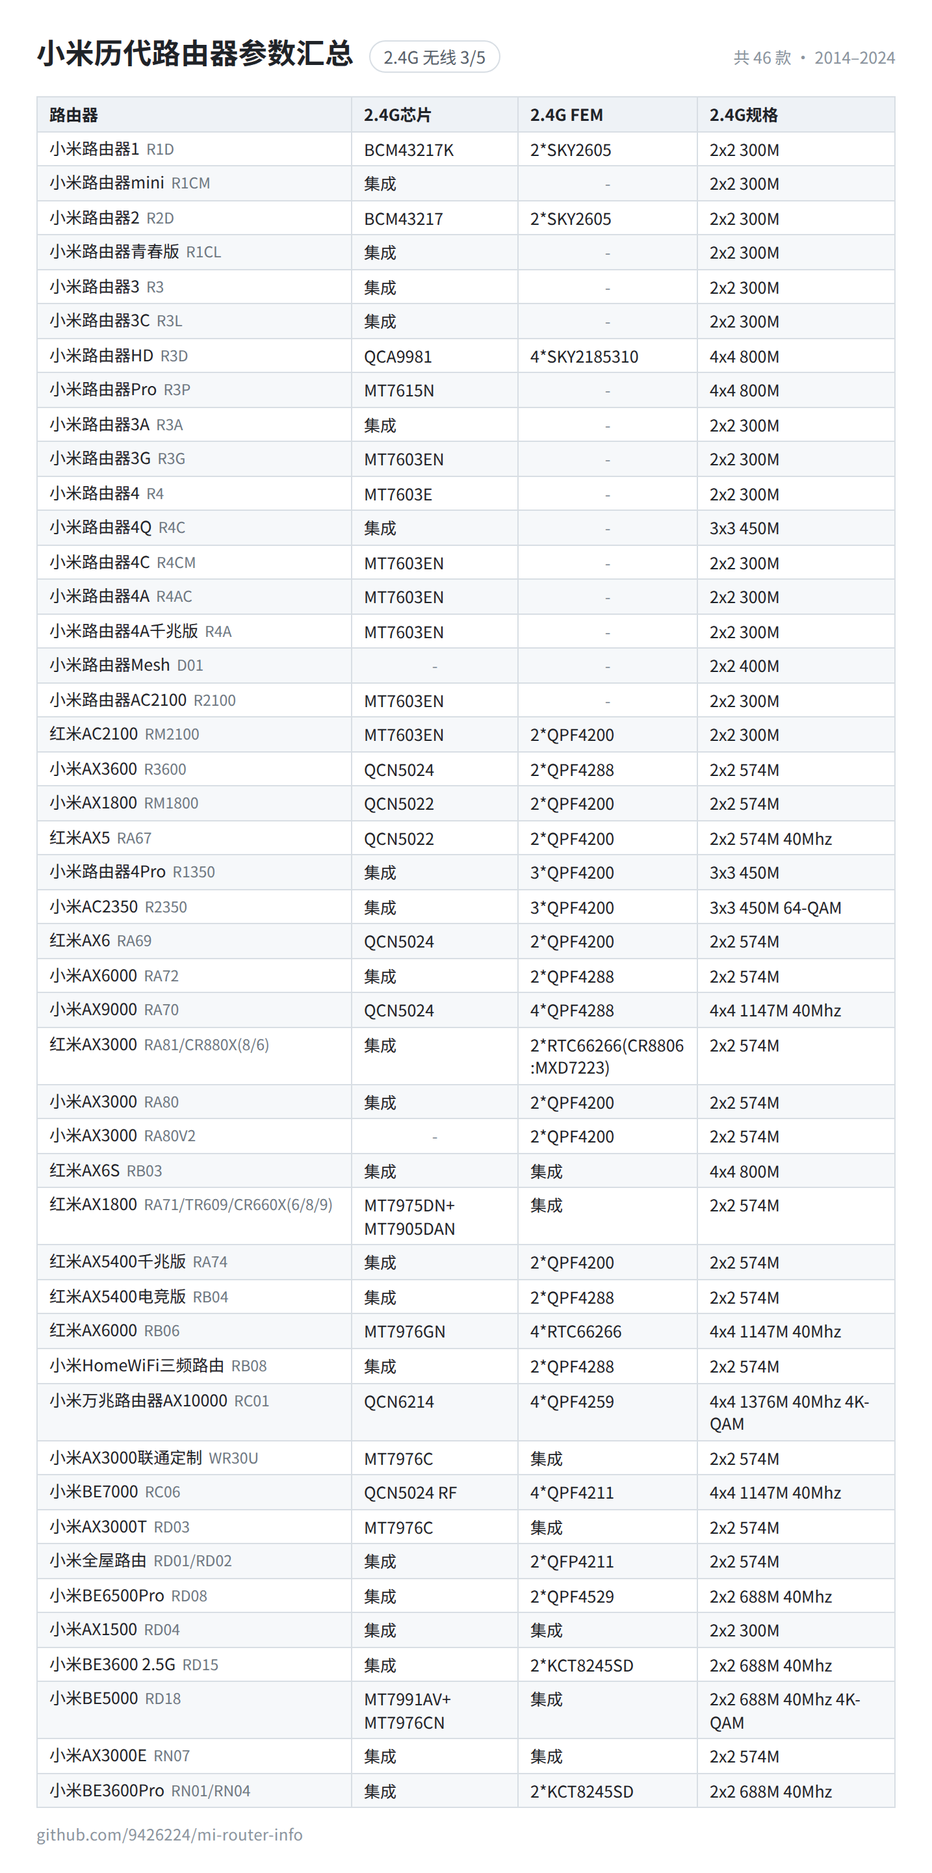
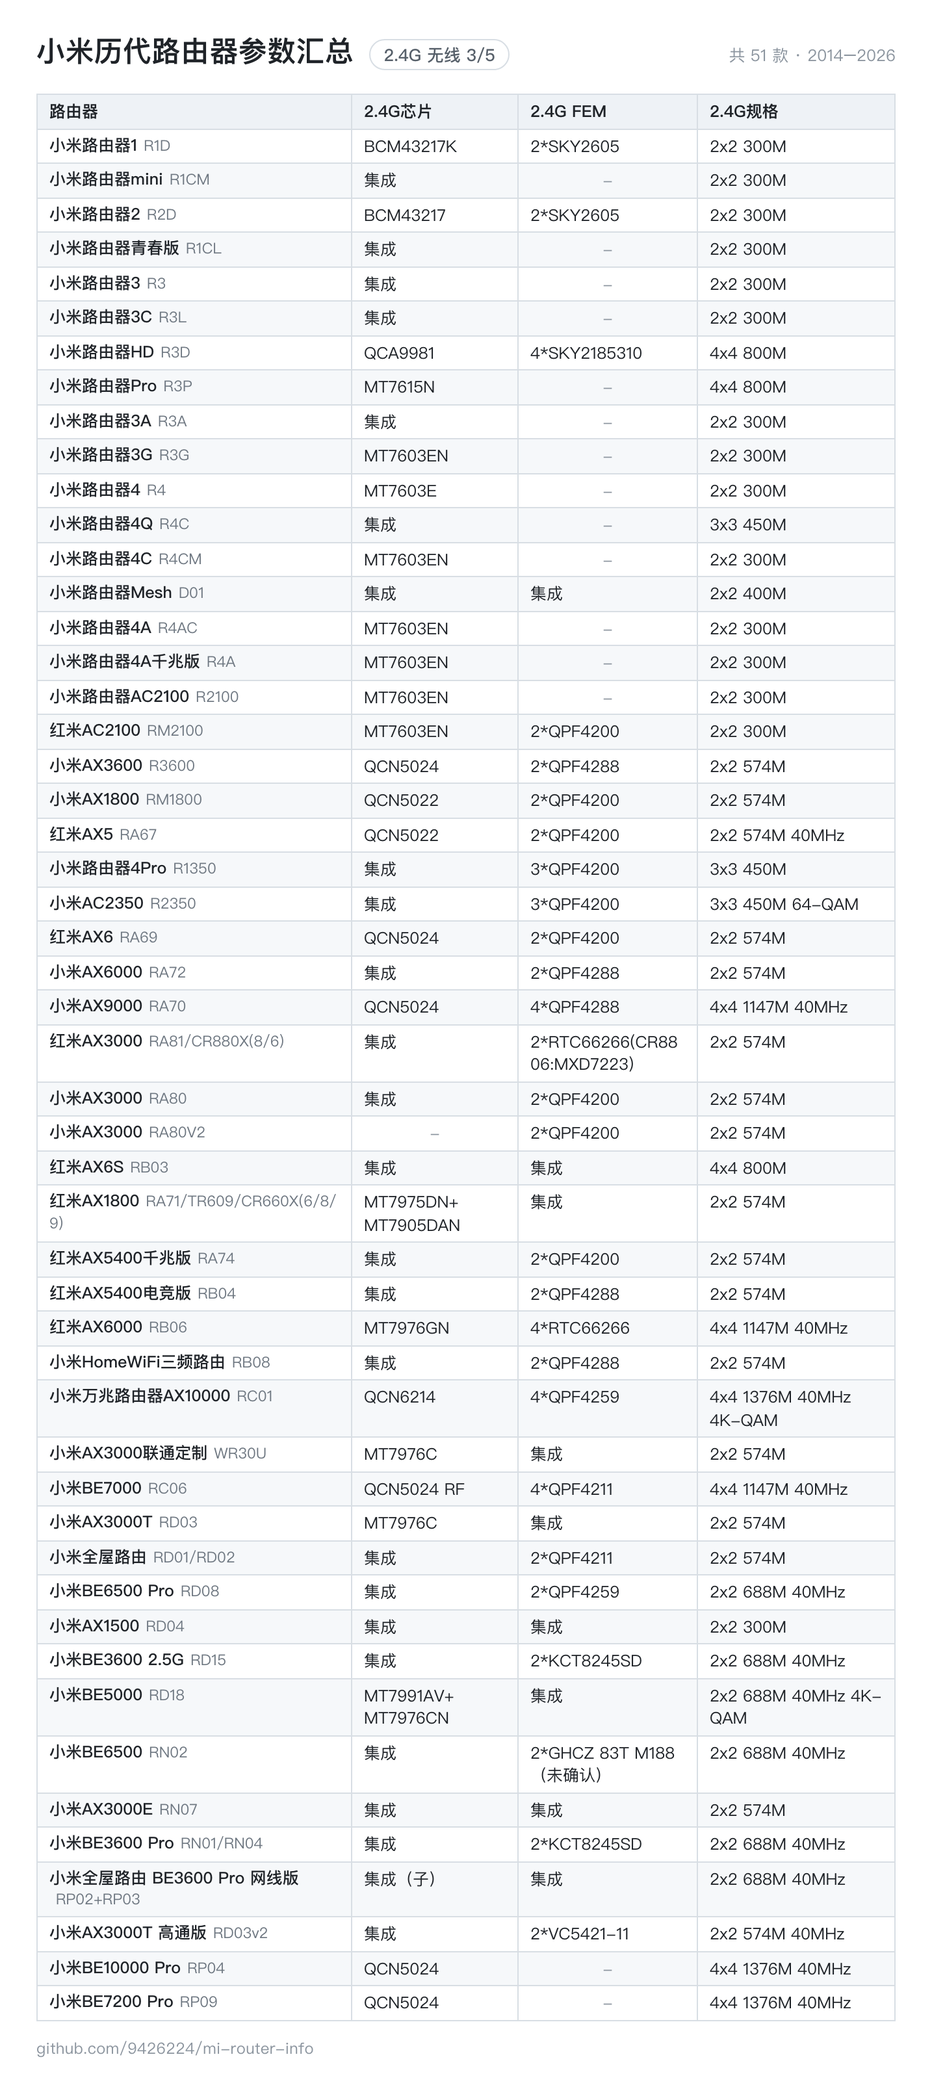
feat: 补充 2024–2026 型号并修正参数 (v0.3.0)
数据：新增小米BE6500、小米BE7200 Pro、小米BE10000 Pro、小米全屋路由 BE3600 Pro 网线版、小米AX3000T 高通版。
修正：BE6500 Pro 的 2.4G FEM（QPF4259）与 5G 速率（5765M）、BE3600 2.5G 的 2.5G PHY（QCA8081）、BE5000 的 NPU 字段、BE7000 的存储型号与辅助芯片、全屋路由的 FEM 拼写。
补齐：小米路由器Mesh 的无线芯片、FEM 与闪存型号。
规范：统一 MHz 单位与型号名称；上市时间支持 YYYY.M；表格按时间排序。
文档：新增 docs/sources.md、docs/variants.md，重写 README 与字段说明，版本 0.3.0。

diff --git a/docs/sources.md b/docs/sources.md
@@ -1,0 +1,33 @@
+# 数据来源
+
+表中每一行都由公开资料整理，优先采用拆机实测，其次官方规格，最后是上市报道。这里记录主要来源，方便后续核对。
+
+## 通用来源
+
+- [acwifi 拆机路由器配置表](https://www.acwifi.net/15132.html)：按型号汇总 CPU、内存、闪存和 FEM 的表格，老型号主要参照它。
+- [acwifi 小米分类](https://www.acwifi.net/category/brand/xiaomi)：逐篇拆机文章，芯片丝印和容量以文章为准。
+- 小米商城产品页（规格参数）与米家产品库（`home.mi.com/...?model=xiaomi.router.*`）：确认型号代号、网口和无线规格。
+- 上市时间与首发价：IT之家、快科技等上市报道。
+
+## 逐型号补充来源
+
+| 型号                           | 来源                                                                                                                                                                                                                                           |
+| ------------------------------ | ---------------------------------------------------------------------------------------------------------------------------------------------------------------------------------------------------------------------------------------------- |
+| 小米BE6500                     | [acwifi 拆机](https://www.acwifi.net/30388.html)、[IT之家开售](https://www.ithome.com/0/788/888.htm)、[小米商城规格](https://m.mi.com/commodity/detail/20276)                                                                                  |
+| 小米BE7200 Pro                 | [IT之家发布](https://www.ithome.com/0/947/128.htm)、[smzdm 拆机](https://post.smzdm.com/p/a3m3d035/)、[小米商城](https://www.mi.com/shop/buy/detail?product_id=24611)、米家产品库 `xiaomi.router.rp09`                                         |
+| 小米BE10000 Pro                | [小米产品页](https://www.mi.com/xiaomi-routers/be-10000-pro)、[acwifi 上市](https://www.acwifi.net/32345.html)、[Chiphell 配置](https://www.chiphell.com/forum.php?mod=viewthread&tid=2749458)、米家产品库 `xiaomi.router.rp04`                |
+| 小米全屋路由 BE3600 Pro 网线版 | [acwifi 套装拆机](https://www.acwifi.net/32986.html)、[acwifi 上市](https://www.acwifi.net/31382.html)、[快科技预售](https://www.163.com/dy/article/K0IG7D9D0511CPVM.html)、[小米产品页](https://www.mi.com/xiaomi-routers/be-3600-pro-wired1) |
+| 小米AX3000T 高通版             | [acwifi 拆机](https://www.acwifi.net/32952.html)、[OpenWrt RD03v2 说明](https://github.com/ADCDS/openwrt-xiaomi-ax3000t-rd03v2)                                                                                                                |
+| 小米BE3600 2.5G                | [acwifi 拆机](https://www.acwifi.net/26827.html)、[1.25A 版本拆机](https://www.acwifi.net/34321.html)                                                                                                                                          |
+| 小米BE3600 Pro                 | [acwifi 拆机](https://www.acwifi.net/29524.html)、[上市预售](https://www.acwifi.net/29074.html)                                                                                                                                                |
+| 小米BE5000                     | [acwifi 拆机](https://www.acwifi.net/29460.html)                                                                                                                                                                                               |
+| 小米AX3000E                    | [acwifi 拆机](https://www.acwifi.net/29584.html)                                                                                                                                                                                               |
+| 小米BE7000                     | [acwifi 拆机](https://www.acwifi.net/24893.html)、[芯片汇总](https://www.acwifi.net/24559.html)                                                                                                                                                |
+| 小米万兆 AX10000               | [acwifi 拆机](https://www.acwifi.net/23365.html)                                                                                                                                                                                               |
+| 小米路由器Mesh                 | [小米官方规格](https://www.mi.com/mesh/specs)、[wikidevi](<https://wikidevi.wi-cat.com/index.php?title=Xiaomi_Mesh_Router_AC1300_(D01)>)                                                                                                       |
+
+## 说明
+
+- 老型号（2014–2022）主要沿用 acwifi 配置表与对应拆机文，个别颗粒型号以丝印为准；表里保留 `-` 而不是猜测。
+- 官方页面只写营销口径（如“四核高通”），具体芯片以拆机为准；两者冲突时以拆机为准，并在 `docs/variants.md` 记录批次差异。
+- 价格只用于确认上市节点，不进入表格。

diff --git a/README.md b/README.md
@@ -1,20 +1,21 @@
 # 小米历代路由器参数汇总
 
-小米 / 红米历代路由器硬件参数一览，从 2014 年的小米路由器 1 到最新的 Wi‑Fi 7 型号。
+小米、红米路由器（2014 年至今）的硬件参数整理：主控、内存、存储、无线芯片与 FEM、网口和扩展接口。数据来自拆机文章、官方规格和上市信息，逐条来源见 [docs/sources.md](docs/sources.md)。
+
+- 在线表格（搜索、排序、按列分组）：<https://9426224.github.io/mi-router-info/>
+- 数据文件：[`data/routers.csv`](data/routers.csv)
+- 新增或修正型号只需要改 CSV 的一行，图片、网页和本页统计由 CI 重新生成
 
 [![build](https://github.com/9426224/mi-router-info/actions/workflows/build.yml/badge.svg)](https://github.com/9426224/mi-router-info/actions/workflows/build.yml)
 
-- 在线浏览（可搜索、排序、按列分组）：<https://9426224.github.io/mi-router-info/>
-- 数据源：[`data/routers.csv`](data/routers.csv)
-
 <!-- STATS:START -->
 
-**46 款型号** · 上市时间 2014–2024 · 21 项参数 · 数据源 [`data/routers.csv`](data/routers.csv)
+**51 款型号** · 上市时间 2014–2026 · 21 项参数 · 数据源 [`data/routers.csv`](data/routers.csv)
 <!-- STATS:END -->
 
-## 参数总览（图片版）
+## 图片版
 
-按用途分成五张图，均保留「名称 + 型号」作为索引列；点击图片可查看原图。
+按用途分成五张，每张以「名称 + 型号」作为索引列，方便对照；点击图片查看原图。
 
 <!-- IMAGES:START -->
 
@@ -39,15 +40,33 @@
 ![小米历代路由器 接口与其他 参数表](assets/specs-io.png)
 <!-- IMAGES:END -->
 
+## 字段说明
+
+| 字段                             | 说明                                       |
+| -------------------------------- | ------------------------------------------ |
+| 路由器名称 / 型号                | 商品名 / 背板或认证型号，多型号用 `/` 分隔 |
+| 上市时间                         | 开售或众筹日期；只查到月份时写作 `YYYY.M`  |
+| SOC / 频率/架构                  | 主控芯片与核心数、主频、架构               |
+| ACC/NPU                          | 硬件加速或 NPU 规格，`-` 表示没有或未确认  |
+| 内存 / 内存型号                  | 容量、代际与颗粒型号                       |
+| 存储 / 存储型号                  | 闪存容量与颗粒型号                         |
+| 2.4G / 5G 芯片、FEM、规格        | 无线芯片、外置功放与理论速率（含 4K QAM）  |
+| 天线 / 其他功能芯片              | 天线数量与内外置、蓝牙/NFC/PoE 等辅助芯片  |
+| 背板网口 / USB/SATA / 交换机芯片 | 有线接口、存储接口与交换芯片               |
+
+几条口径：
+
+- `-` 表示该项未确认或不适用，不当成 0。
+- 速率是厂商理论最大值，实际速率取决于终端、频宽和环境影响。
+- 同一型号可能有多个硬件批次（例如 BE3600 的 RD15/RD16、AX3000T 的联发科/高通版、BE6500 Pro 的内存缩水版），表中记录主批次，差异单独整理在 [docs/variants.md](docs/variants.md)。
+
 ## 添加或修正型号
 
-只需要改 [`data/routers.csv`](data/routers.csv) 的一行，推送后 GitHub Actions 会自动重新生成上面的图片、网页和统计。
+1. 用 Excel / WPS / Numbers 打开 `data/routers.csv`（UTF-8），或在 GitHub 网页上直接编辑。
+2. 按表头补一行，未知字段填 `-`。
+3. 提交后 CI 会校验列数、必填项和重复型号，重新生成 `assets/specs-*.png` 与 `output/index.html`。
 
-1. 用 Excel / WPS / Numbers 打开 `data/routers.csv`（UTF-8 编码），或在 GitHub 网页上直接编辑。
-2. 按表头填写一行，不确定的字段填 `-`。
-3. 提交。CI 会校验列数、必填项和重复型号，然后重新生成 `assets/specs-*.png` 与 `output/index.html`。
-
-字段含义、编辑方式和本地预览见 [docs/contributing.md](docs/contributing.md)。
+字段约定和常见问题见 [docs/contributing.md](docs/contributing.md)。
 
 ## 本地构建
 
@@ -59,21 +78,10 @@ npx playwright install chromium
 npm run build
 ```
 
-构建会生成 `assets/specs-*.png` 和 `output/index.html`（浏览器直接打开即可预览），并把统计与图片写回本页。
+构建会生成 `assets/specs-*.png` 和 `output/index.html`（浏览器直接打开预览），并更新本页的统计与图片。
 
 - `npm run check`：检查格式
 - `npm run fix`：自动修正格式
-
-## 仓库结构
-
-| 路径                 | 用途                             |
-| -------------------- | -------------------------------- |
-| `data/routers.csv`   | 唯一数据源，一行一台型号         |
-| `scripts/build.mjs`  | 生成图片、网页并更新 README      |
-| `web/`               | 网页模板、样式与前端脚本         |
-| `assets/specs-*.png` | 自动生成的表格图片（勿手改）     |
-| `output/`            | 构建产物，CI 部署到 GitHub Pages |
-| `docs/`              | 设计与维护文档                   |
 
 ## 许可
 

diff --git a/docs/contributing.md b/docs/contributing.md
@@ -22,29 +22,29 @@
 
 ## 字段约定
 
-| 列                    | 说明                   | 示例                                    |
-| --------------------- | ---------------------- | --------------------------------------- |
-| 路由器名称            | 商品名                 | 小米AX6000                              |
-| 型号                  | 背板型号，多型号用 `/` | RA72                                    |
-| 上市时间              | `YYYY.M.D`，未知写 `-` | 2020.12.28                              |
-| SOC                   | 主控芯片               | IPQ5018                                 |
-| 频率/架构             | 核心数、主频、架构     | 2C 1G A53                               |
-| ACC/NPU               | 硬件加速 / NPU 规格    | 1C 1G                                   |
-| 内存 / 内存型号       | 容量与颗粒型号         | 512M DDR3L / 钰创EM6HE16EWAKG-10H       |
-| 存储 / 存储型号       | 容量与颗粒型号         | 128M / 兆易创新GD5F1GQ4REYIG            |
-| 2.4G芯片 / FEM / 规格 | 2.4G 无线方案          | 集成 / 2\*QPF4288 / 2x2 574M            |
-| 5G芯片 / FEM / 规格   | 5G 无线方案            | QCN9024 / 4\*QPF4588 / 4x4 4804M 160Mhz |
-| 天线                  | 数量与内置/外置        | 7\*外置                                 |
-| 其他功能芯片          | 蓝牙、独立 FEM 等      | QCA9889                                 |
-| 背板网口              | 网口组合               | 2.5G\*1+1G\*3                           |
-| USB/SATA              | 接口                   | USB3.0                                  |
-| 交换机芯片            | 交换芯片               | QCA8337-AL3C+QCA8081                    |
+| 列                    | 说明                              | 示例                                    |
+| --------------------- | --------------------------------- | --------------------------------------- |
+| 路由器名称            | 商品名                            | 小米AX6000                              |
+| 型号                  | 背板型号，多型号用 `/`            | RA72                                    |
+| 上市时间              | `YYYY.M.D`；只查到月份写 `YYYY.M` | 2020.12.28                              |
+| SOC                   | 主控芯片                          | IPQ5018                                 |
+| 频率/架构             | 核心数、主频、架构                | 2C 1G A53                               |
+| ACC/NPU               | 硬件加速 / NPU 规格               | 1C 1G                                   |
+| 内存 / 内存型号       | 容量与颗粒型号                    | 512M DDR3L / 钰创EM6HE16EWAKG-10H       |
+| 存储 / 存储型号       | 容量与颗粒型号                    | 128M / 兆易创新GD5F1GQ4REYIG            |
+| 2.4G芯片 / FEM / 规格 | 2.4G 无线方案                     | 集成 / 2\*QPF4288 / 2x2 574M            |
+| 5G芯片 / FEM / 规格   | 5G 无线方案                       | QCN9024 / 4\*QPF4588 / 4x4 4804M 160Mhz |
+| 天线                  | 数量与内置/外置                   | 7\*外置                                 |
+| 其他功能芯片          | 蓝牙、独立 FEM 等                 | QCA9889                                 |
+| 背板网口              | 网口组合                          | 2.5G\*1+1G\*3                           |
+| USB/SATA              | 接口                              | USB3.0                                  |
+| 交换机芯片            | 交换芯片                          | QCA8337-AL3C+QCA8081                    |
 
 约定：
 
 - 「路由器名称 + 型号」必须唯一，重复会被构建拦下。
 - 未知或不适用的字段统一写 `-`，不要留空。
-- 上市时间写 `2014.4.23` 这种格式；只写年份或月份也能构建，但会被提示。
+- 上市时间写 `2014.4.23`；只查到月份可以写 `2025.6`，只写年份会被提示补全。
 - 列顺序不要改；要增删列需同时改 `scripts/build.mjs` 里的 `COLUMNS` 和列分组。
 
 ## 本地预览
@@ -81,6 +81,12 @@ open output/index.html
 - 仅 `main`：构建后如果图片或 README 有变化，由 `github-actions[bot]` 自动提交；随后部署 `output/` 到 GitHub Pages。
 - 机器人提交带 `[skip ci]`，且 job 以 `github.actor != 'github-actions[bot]'` 守卫，不会循环触发。
 - 因此即使在网页上直接改 CSV，CI 也会自动补上图片和 README 的更新；本地跑 `npm run build` 只是让改动即时可见。
+
+## 数据来源与批次
+
+- 新增或修改数据时，把用到的链接记到 [`sources.md`](sources.md)，老型号沿用 acwifi 配置表即可。
+- 同名不同硬件的型号（BE3600、AX3000T、BE6500 Pro 等）先看 [`variants.md`](variants.md)，表格只记录主批次。
+- 拿不准的字段写 `-`，不要用推测值填满。
 
 ## 常见问题
 

diff --git a/docs/variants.md b/docs/variants.md
@@ -1,0 +1,58 @@
+# 硬件批次与版本差异
+
+同名产品换硬件的情况不少，表格只记录主批次。买二手或对比参数前，先看这一页确认批次。
+
+## 小米 BE3600 系列
+
+| 版本         | 型号        | 网口          | 主控          | 无线                                       | 备注                                   |
+| ------------ | ----------- | ------------- | ------------- | ------------------------------------------ | -------------------------------------- |
+| 白色 2.5G 版 | RD15        | 1×2.5G + 3×1G | IPQ5312 四核  | 2.4G 2x2 688M + 5G 2x2 2882M，4 颗独立 FEM | 表中记录的版本，2024.1 上市            |
+| 白色千兆版   | RD16        | 4×1G          | 高通四核      | 同 2.4G/5G 规格，无 2.5G 口                | 2024.4 上市，首发 229 元               |
+| 黑色版       | RD16        | 4×1G          | 达发 AN7563PT | 2.4G/5G 用 MT7990AN + MT7976CN，FEM 集成   | 后期批次，功耗更低，固件与 RD15 不通用 |
+| Pro          | RN01 / RN04 | 1×2.5G + 3×1G | IPQ5312       | 同 2.5G 版，带蓝牙网关/中枢网关            | 单只 349 元，套装 699 元               |
+
+来源：[BE3600 RD15 拆机](https://www.acwifi.net/26827.html)、[1.25A 版本](https://www.acwifi.net/34321.html)、[黑色版拆机](https://www.acwifi.net/34369.html)、[千兆版上市](https://article.pchome.net/n2_22/s1/2.html)、[版本对比](https://www.shunot.com/miwifi/954.html)。
+
+## 小米 AX3000T
+
+| 版本     | 型号   | 主控    | 2.4G FEM  | 5G FEM    | 备注                      |
+| -------- | ------ | ------- | --------- | --------- | ------------------------- |
+| 联发科版 | RD03   | MT7981B | 集成      | 集成      | 2023.8 上市，可刷 OpenWrt |
+| 高通版   | RD03v2 | IPQ5018 | VC5421-11 | KCT8546SE | 2025.6 起换方案，带 NFC   |
+
+高通版内存 256MB、闪存 128MB，和联发科版一致；无线规格同为 AX3000，但固件不通用。
+
+来源：[高通版拆机](https://www.acwifi.net/32952.html)、[OpenWrt RD03v2](https://github.com/ADCDS/openwrt-xiaomi-ax3000t-rd03v2)。
+
+## 小米 BE6500 / BE6500 Pro
+
+| 型号       | 型号代号 | 内存 | 闪存 | 中枢网关 | 天线     |
+| ---------- | -------- | ---- | ---- | -------- | -------- |
+| BE6500     | RN02     | 512M | 128M | 无       | 6 根外置 |
+| BE6500 Pro | RD08     | 1G   | 512M | 有       | 5 根内置 |
+
+BE6500 可以看作去掉网关、增加外置天线的版本，5G 都是 QCN6224 4x4。
+
+来源：[BE6500 拆机](https://www.acwifi.net/30388.html)、[BE6500 Pro 拆机](https://www.acwifi.net/27123.html)。
+
+## 小米万兆 AX10000 与 BE10000 Pro
+
+| 型号         | 主控                  | 内存         | 网口           | 存储         | 上市    |
+| ------------ | --------------------- | ------------ | -------------- | ------------ | ------- |
+| 万兆 AX10000 | IPQ9570 四核 2.2G A73 | 2G DDR4-3200 | 2.5G×4 + SFP+  | 无 M.2       | 2022.12 |
+| BE10000 Pro  | IPQ5424 四核 1.8G A55 | 2G DDR4      | 10G×2 + 2.5G×4 | M.2 + USB3.0 | 2025.9  |
+
+BE10000 Pro 的 CPU 主频更低，但有 40TOPS NPU，多了万兆电口和 M.2；两者不是简单升级关系。
+
+来源：[万兆拆机](https://www.acwifi.net/23365.html)、[BE10000 Pro 上市](https://www.acwifi.net/32345.html)、[Chiphell 配置](https://www.chiphell.com/forum.php?mod=viewthread&tid=2749458)。
+
+## 小米全屋路由
+
+| 版本                        | 型号        | 形态                                     | 无线                         |
+| --------------------------- | ----------- | ---------------------------------------- | ---------------------------- |
+| 全屋路由（2023.9）          | RD01 / RD02 | 主路由 + 子路由，无线 Mesh               | 2.4G 2x2 574M + 5G 2x2 2402M |
+| BE3600 Pro 网线版（2025.5） | RP02 / RP03 | 5 口主路由 + 86 面板子路由，PoE 有线组网 | 子路由 2.4G 688M + 5G 2882M  |
+
+网线版的主路由不发射 Wi-Fi，只负责路由、PoE 供电和中枢网关；无线全部由子路由提供。
+
+来源：[网线版套装拆机](https://www.acwifi.net/32986.html)、[上市信息](https://www.acwifi.net/31382.html)、[预售报道](https://www.163.com/dy/article/K0IG7D9D0511CPVM.html)。

diff --git a/CHANGELOG.md b/CHANGELOG.md
@@ -1,5 +1,15 @@
 # 更新记录
 
+## 0.3.0 - 2026-11-23
+
+补充 2024–2026 年型号，修正已知错误，并补全来源与批次说明。
+
+- 新增：小米BE6500、小米BE7200 Pro、小米BE10000 Pro、小米全屋路由 BE3600 Pro 网线版、小米AX3000T 高通版
+- 修正：小米BE6500 Pro 的 2.4G FEM（QPF4259）与 5G 速率（5765M）、小米BE3600 2.5G 的 2.5G PHY（QCA8081）、小米BE5000 的 NPU 字段、小米BE7000 的存储型号与辅助芯片
+- 补齐：小米路由器Mesh 的无线芯片、FEM 与闪存型号；统一 `Mhz` 为 `MHz`；型号名称加空格（BE6500 Pro / BE3600 Pro）
+- 数据支持 `YYYY.M`（仅到月份）的上市时间；表格按时间重新排序
+- 新增 [docs/sources.md](docs/sources.md) 与 [docs/variants.md](docs/variants.md)，重写 README 与字段说明
+
 ## 0.2.0 - 2026-11-23
 
 数据驱动重构：改一行 CSV 即可生成 README 图片与网页。

diff --git a/docs/design.md b/docs/design.md
@@ -40,7 +40,7 @@ USB/SATA, 交换机芯片
 
 `npm run build`（`scripts/build.mjs`）：
 
-1. 解析并校验 CSV（列数、必填字段、日期格式、重复型号）。
+1. 解析并校验 CSV（列数、必填字段、上市时间格式 `YYYY.M.D` / `YYYY.M`、重复型号）。
 2. 计算统计（型号数量、时间跨度）。
 3. 输出 `output/index.html`（模板 `web/index.html` + `web/page.css` + `web/app.js`，数据以内联 JSON 注入）。
 4. 为五个列分组分别生成 `output/image-*.html`（样式 `web/image.css`）。
